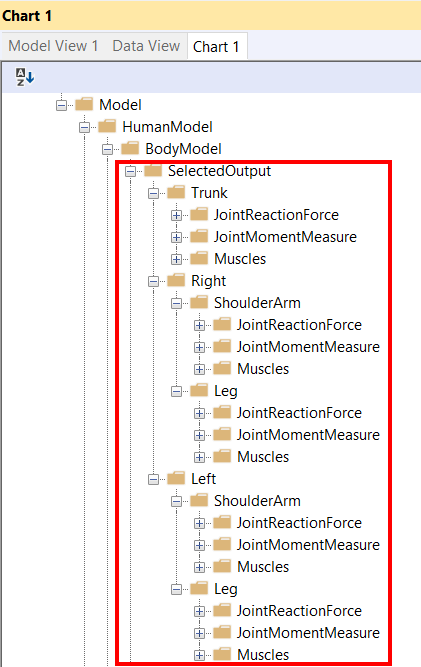
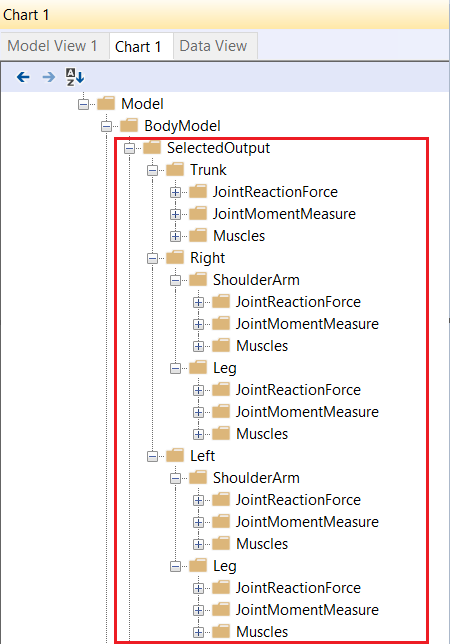
-Modified all lessons within 'A_Getting_started' tutorial and corresponding images to adhere to new Human Standing template model and example.

Changed region(s): [[0.0, 0.0, 1.0, 1.0]]

diff --git a/A_Getting_started/lesson2.rst b/A_Getting_started/lesson2.rst
@@ -1,10 +1,10 @@
 Lesson 2: Controlling the Posture
 =================================
 
-The Standing Model's posture is defined by the angles at the anatomical joints. 
+The Human Standing Model's posture is defined by the angles at the anatomical joints. 
 
 These specifications have been collected in one of the model files, "Mannequin.any". Scroll
-down to the line which says ``#path BM_MANNEQUIN_FILE "Model\Mannequin.any"``. 
+down to the line which says ``#include "Model\Mannequin.any"``. 
 
 Mannequin file structure
 ------------------------
@@ -13,14 +13,14 @@ Mannequin file structure
 
     ...
 
-    // Using your own Mannequin.any file in the Model folder of your model
-    #path BM_MANNEQUIN_FILE "Model\Mannequin.any"
+    // Define desired posture or movement of the model
+    #include "Model\Mannequin.any"
 
     ...
 
 
-**This line means that your model will use the "Mannequin.any" file located in the Model folder, 
-relative to the location of the main file that you're viewing.**
+**This line means that your model will include the "Mannequin.any" file located in the Model folder, 
+within the main file.**
 
 Double-clicking the file name in the editor window after loading
 your model opens the mannequin file in a new tab. Then you see the
@@ -29,27 +29,30 @@ of the lines):
 
 .. code-block:: AnyScriptDoc
 
-     AnyFolder Mannequin = {
-       AnyFolder Posture = {
-         AnyFolder Right = {     
+     // Default mannequin position values
+     HumanModel.Mannequin = {
+       Posture = {
+         Right = {     
          };
-         AnyFolder Left = {
+         Left = {
          };
        };
       
-     AnyFolder PostureVel= { 
-        AnyFolder Right = {     
-         };
-         AnyFolder Left = {
-         };
+       PostureVel= { 
+         Right = {     
+         };
+         Left = {
+         };
        };
      };
 
 
-**The section between each pair of braces is said to be a Folder, with all variables defined therein forming the folder contents.**
+**The section between each pair of braces creates a Folder, with all variables defined within forming the folder contents.**
 
-Once loading is complete, you can see this folder structure being replicated in "Model tree" on the left of your screen. All contents of this file 
+Once the loading process is complete, you can see this folder structure being replicated in "Model tree" on the left of your screen. All contents of this file 
 can be seen by expanding the "Mannequin" folder icon in the tree.
+
+|ModelTree|
 
 There are sub-folders for postural joint angles (in degrees) and angular velocities (in degrees/second), 
 for the right and left halves of the body.
@@ -66,11 +69,14 @@ and "Left" sub-folders are as follows.
         AnyVar SternoClavicularProtraction=-23; //This value is not used for initial position
         AnyVar SternoClavicularElevation=11.5; //This value is not used for initial position
         AnyVar SternoClavicularAxialRotation=-20; //This value is not used for initial position
+        
         AnyVar GlenohumeralFlexion =-0;
         AnyVar GlenohumeralAbduction = 10;
         AnyVar GlenohumeralExternalRotation = 0;
+       
         AnyVar ElbowFlexion = 0.01;
         AnyVar ElbowPronation = -20.0;
+        
         AnyVar WristFlexion =0;
         AnyVar WristAbduction =0;
         
@@ -78,7 +84,9 @@ and "Left" sub-folders are as follows.
         AnyVar HipFlexion = 0.0;
         AnyVar HipAbduction = 5.0;
         AnyVar HipExternalRotation = 0.0;
+       
         AnyVar KneeFlexion = 0.0;
+        
         AnyVar AnklePlantarFlexion =0.0;
         AnyVar SubTalarEversion =0.0;
         
@@ -105,11 +113,10 @@ Simulation based analyses in AnyBody are termed "Studies".
 
 **Step 1**: Click on the operations drop-down menu at the top (see figure). Select “Main.RunApplication”
 
-This is what the other drop-down items do. "RunApplication" is a readymade package of some pre-processing steps and 
-the "InverseDynamics" analysis:
+"RunApplication" is a readymade package of some pre-processing steps and the "InverseDynamics" analysis. Other drop-down operations include:
 
--   **Kinematics**: Kinematic analysis
--   **InverseDynamics**: Inverse dynamic analysis
+-   **Kinematics**: Runs Kinematic analysis
+-   **InverseDynamics**: Runs Inverse dynamic analysis
 -   **InitialConditions**: Runs only the first time step of Kinematics. Useful for testing and debugging.
 -   **Replay**: Replays the last operation that was run.
 
@@ -146,7 +153,9 @@ next lesson, we will examine the effects of posture on the results
 : :doc:`Lesson 3: Reviewing analysis
 results <lesson3>`.
 
-.. |RunApplication| image:: _static/lesson2/image1.png
+.. |ModelTree| image:: _static/lesson2/image1.png
+
+.. |RunApplication| image:: _static/lesson2/image2.png
    
-.. |Run toolbar| image:: _static/lesson2/image2.png
+.. |Run toolbar| image:: _static/lesson2/image3.png
    

diff --git a/A_Getting_started/lesson3.rst b/A_Getting_started/lesson3.rst
@@ -27,7 +27,7 @@ button |getting started 8|. It adds a table with values below the chart:
 |Chart view Data button|
 
 
-**This chart shows you that when standing upright, the most active muscle in model is using about 15%
+**This chart shows you that when standing upright, the most active muscle in model is using about 12%
 of that particular muscle's maximum strength.** 
 
 Hip forces – Standing posture
@@ -50,7 +50,7 @@ the Chart View.
 
 |Chartview ProximoDistalForce|
 
-From this chart, we can see that there is about 334N force at the
+From this chart, we can see that there is about 558N force at the
 right hip joint in the proximodistal direction. 
 
 **It is possible to select and plot several outputs simultaneously
@@ -75,16 +75,16 @@ file and change the PelvisThoraxExtension value from 0 to -60.
 
 .. code-block:: AnyScriptDoc
     
-    AnyFolder Mannequin = {
+    Mannequin = {
     
-        AnyFolder Posture = {
+        Posture = {
         
             ...
             
-            §AnyVar PelvisThoraxExtension=-60; §
+            §PelvisThoraxExtension=-60; §
 
-            AnyVar PelvisThoraxLateralBending=0;
-            AnyVar PelvisThoraxRotation=0;
+            PelvisThoraxLateralBending=0;
+            PelvisThoraxRotation=0;
             
             ...
     
@@ -101,7 +101,7 @@ Next, we will check the changes in the right hip joint reaction forces.
 |Chart view: bowing hip reaction forces|
 
 In the above Chart View, the largest hip joint reaction
-force component is the "ProximoDistalForce" at about 919N.
+force component is the "ProximoDistalForce" at about 1263N.
 So compared to the normal standing posture model, the value has more than
 doubled. The forces of the "Mediolateral" and "AnteroPosterior" directions have also
 increased.

diff --git a/A_Getting_started/lesson1.rst b/A_Getting_started/lesson1.rst
@@ -1,11 +1,11 @@
-Lesson 1: Creating a Standing Model
+Lesson 1: Creating a Human Standing Model
 ==================================================
 
-The standing model can be found in the AMMR folder under
-Applications/Examples. The main file is called StandingModel.Main.any.
+The Human Standing model can be found in the AMMR folder under
+Applications/Examples/Human Standing. The main file is called Human Standing.Main.any.
 
-**While a main file can be opened with the "File->Open" menu in AnyBody, do not do this! This tutorial will teach you an easier way
-to use StandingModel as a starting template.**
+**While this file can be opened with the "File->Open" menu in AnyBody, do not do this! This tutorial will teach you an easier way
+to use the Human Standing model as a starting template.**
 
 Key (modifiable) features of the standing model are:
 
@@ -24,7 +24,7 @@ Key (modifiable) features of the standing model are:
 Model templates
 ---------------
 
-To create a new standing model using the template model in the AMMR, click the "Create New from template" button |Model
+To create a new Human Standing model using the template model in the AMMR, click the "Create New from template" button |Model
 button| in the toolbar:
 
 |ModelLoadButton|

diff --git a/A_Getting_started/intro.rst b/A_Getting_started/intro.rst
@@ -59,6 +59,8 @@ A closer inspection of the Application branch reveals that it has three subfolde
 -   The **Beta** folder contains models that are unfinished, but may still be useful. 
 -   The **Examples** folder contains many models of various activities of daily living, and it is likely that you
     will find a model that is similar to your own end goal.
+-   The **MocapExamples** folder contains models utilizing the AnyMoCap framework. If you have your own motion capture data this is a good place to start,
+    whether you want to analyze multi trial/subject MoCap data or a single subject wearing an inertial MoCap suit.  
 -   The **Validation** folder contains models that have been used for validation purposes, typically by comparison of the model predictions
     with experimental measurements.
 

diff --git a/contributing.rst b/contributing.rst
@@ -55,7 +55,7 @@ Then run the following commands to install the necesssary packages.
 
     c:\path\to\anybody_tutorials> conda install -c conda-forge sphinx cloud_sptheme pygments_anyscript
 
-Once the packages are install run this command to build the tutorial files. 
+Once the packages are installed run this command to build the tutorial files. 
 
 .. code-block:: bat
 
